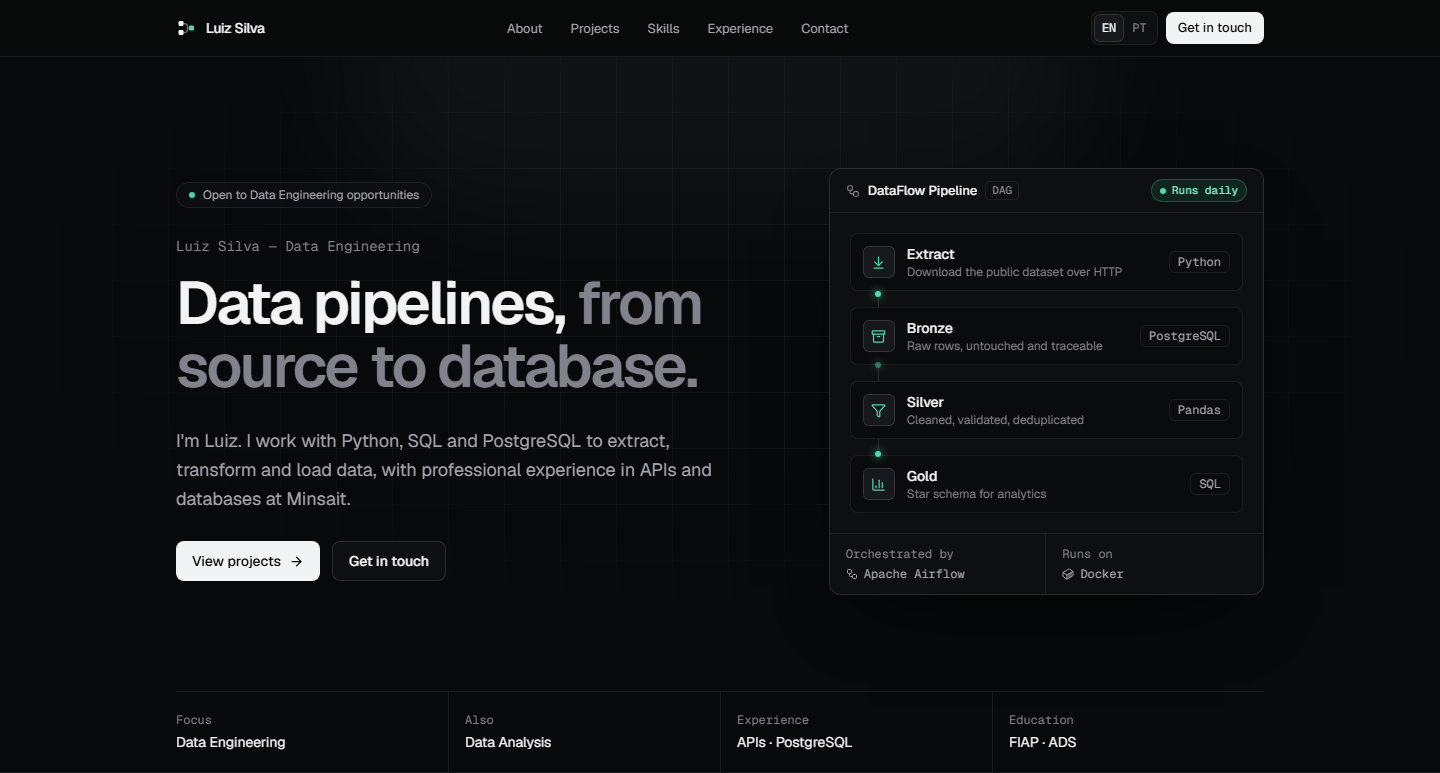
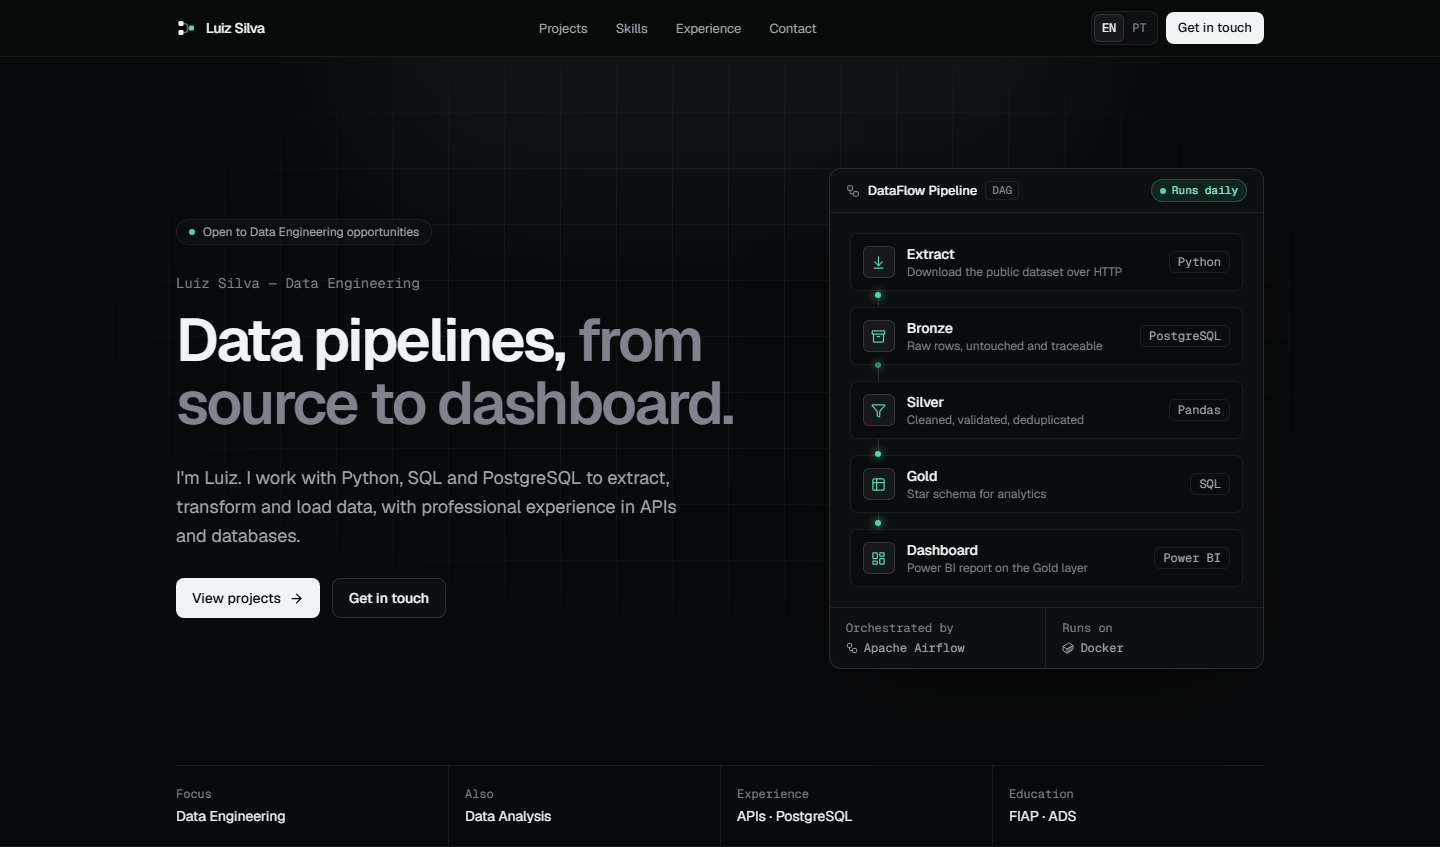
feat: add Power BI to skills and DataFlow Pipeline
Adds Power BI and DAX to Data Analysis skills, a Dashboard stage to
the hero DAG, and the Power BI report (four pages, 19 DAX measures)
to the DataFlow Pipeline card. Headline now reads "from source to
dashboard".

diff --git a/app/lib/i18n/dictionaries/pt.ts b/app/lib/i18n/dictionaries/pt.ts
@@ -24,7 +24,7 @@ export const pt: Dictionary = {
     status: "Aberto a oportunidades em Engenharia de Dados",
     role: "Engenharia de Dados",
     headline: "Pipelines de dados,",
-    headlineMuted: "da origem ao banco de dados.",
+    headlineMuted: "da origem ao dashboard.",
     tagline:
       "Sou o Luiz. Trabalho com Python, SQL e PostgreSQL para extrair, transformar e carregar dados, com experiência profissional em APIs e bancos de dados.",
     viewProjects: "Ver projetos",
@@ -44,6 +44,7 @@ export const pt: Dictionary = {
       bronze: { label: "Bronze", detail: "Linhas brutas, intactas e rastreáveis" },
       silver: { label: "Silver", detail: "Limpas, validadas e sem duplicatas" },
       gold: { label: "Gold", detail: "Star schema para análise" },
+      dashboard: { label: "Dashboard", detail: "Relatório Power BI sobre a Gold" },
     },
     orchestration: "Orquestrado por",
     runtime: "Executa em",
@@ -72,11 +73,12 @@ export const pt: Dictionary = {
     items: {
       dataflow: {
         description:
-          "Pipeline ELT em batch que transforma um milhão de transações brutas de varejo em um star schema testado e pronto para análise. Construído em Medallion Architecture (Bronze, Silver, Gold) com Python, Pandas e PostgreSQL, orquestrado diariamente pelo Apache Airflow e executado de ponta a ponta com um único docker compose up.",
+          "Pipeline ELT em batch que transforma um milhão de transações brutas de varejo em um star schema testado e pronto para análise. Construído em Medallion Architecture (Bronze, Silver, Gold) com Python, Pandas e PostgreSQL, orquestrado diariamente pelo Apache Airflow e visualizado em um relatório Power BI, executado de ponta a ponta com um único docker compose up.",
         highlights: [
           "Qualidade de dados como barreira: checagens críticas param a execução antes que dados inválidos cheguem à Silver ou à Gold, e linhas rejeitadas vão para quarentena com o motivo",
           "Execuções idempotentes: uma segunda execução ignora o arquivo já carregado e altera 0 linhas",
           "Modelo dimensional: tabela fato, quatro dimensões, surrogate keys e membro desconhecido",
+          "Relatório Power BI sobre a camada Gold: quatro páginas e 19 medidas DAX, cada uma conferível com uma query SQL, salvo como Power BI Project (TMDL + PBIR) e versionado no Git",
           "Observabilidade com logs estruturados e um schema de auditoria para cada execução de tarefa e checagem de qualidade",
           "Testes unitários e de integração com Pytest, além de Ruff e CI no GitHub Actions",
         ],
@@ -102,7 +104,7 @@ export const pt: Dictionary = {
       },
       dataAnalysis: {
         title: "Análise de Dados",
-        description: "Área secundária — consulta, organização e síntese de dados.",
+        description: "Consulta, modelagem e visualização de dados, do SQL aos dashboards no Power BI.",
       },
       backend: {
         title: "Backend & APIs",

diff --git a/app/lib/i18n/dictionaries/en.ts b/app/lib/i18n/dictionaries/en.ts
@@ -24,7 +24,7 @@ export const en: Dictionary = {
     status: "Open to Data Engineering opportunities",
     role: "Data Engineering",
     headline: "Data pipelines,",
-    headlineMuted: "from source to database.",
+    headlineMuted: "from source to dashboard.",
     tagline:
       "I'm Luiz. I work with Python, SQL and PostgreSQL to extract, transform and load data, with professional experience in APIs and databases.",
     viewProjects: "View projects",
@@ -44,6 +44,7 @@ export const en: Dictionary = {
       bronze: { label: "Bronze", detail: "Raw rows, untouched and traceable" },
       silver: { label: "Silver", detail: "Cleaned, validated, deduplicated" },
       gold: { label: "Gold", detail: "Star schema for analytics" },
+      dashboard: { label: "Dashboard", detail: "Power BI report on the Gold layer" },
     },
     orchestration: "Orchestrated by",
     runtime: "Runs on",
@@ -72,11 +73,12 @@ export const en: Dictionary = {
     items: {
       dataflow: {
         description:
-          "A batch ELT pipeline that turns one million raw retail transactions into a tested, analytics-ready star schema. Built on a Medallion Architecture (Bronze, Silver, Gold) with Python, Pandas and PostgreSQL, orchestrated daily by Apache Airflow, and running end to end with a single docker compose up.",
+          "A batch ELT pipeline that turns one million raw retail transactions into a tested, analytics-ready star schema. Built on a Medallion Architecture (Bronze, Silver, Gold) with Python, Pandas and PostgreSQL, orchestrated daily by Apache Airflow and visualized in a Power BI report, running end to end with a single docker compose up.",
         highlights: [
           "Data quality as a gate: critical checks stop the run before invalid data reaches Silver or Gold, and rejected rows are quarantined with a reason",
           "Idempotent runs: a second run skips the known file and changes 0 rows",
           "Dimensional model: fact table, four dimensions, surrogate keys and an unknown member",
+          "Power BI report on the Gold layer: four pages and 19 DAX measures, each one checkable against an SQL query, saved as a Power BI Project (TMDL + PBIR) and versioned in Git",
           "Observability with structured logs and an audit schema for every task run and quality check",
           "Pytest unit and integration tests, plus Ruff and CI on GitHub Actions",
         ],
@@ -102,7 +104,7 @@ export const en: Dictionary = {
       },
       dataAnalysis: {
         title: "Data Analysis",
-        description: "Secondary focus — querying, organizing and summarizing data.",
+        description: "Querying, modeling and visualizing data, from SQL to Power BI dashboards.",
       },
       backend: {
         title: "Backend & APIs",

diff --git a/app/components/sections/Hero/PipelineDiagram.tsx b/app/components/sections/Hero/PipelineDiagram.tsx
@@ -3,9 +3,10 @@
 import {
   Archive,
   ArrowDownToLine,
-  ChartColumn,
   Container as ContainerIcon,
   Funnel,
+  LayoutDashboard,
+  Table2,
   Workflow,
 } from "lucide-react";
 import type { LucideIcon } from "lucide-react";
@@ -22,10 +23,12 @@ const STAGE_ICONS: Record<PipelineStageId, LucideIcon> = {
   extract: ArrowDownToLine,
   bronze: Archive,
   silver: Funnel,
-  gold: ChartColumn,
+  gold: Table2,
+  dashboard: LayoutDashboard,
 };
 
-// A schematic of DataFlow Pipeline's Medallion flow (Bronze → Silver → Gold).
+// A schematic of DataFlow Pipeline's Medallion flow (Bronze → Silver → Gold),
+// ending in the Power BI report built on the Gold layer.
 export function PipelineDiagram() {
   const { dictionary } = useLanguage();
   const { pipeline } = dictionary;

diff --git a/app/types/index.ts b/app/types/index.ts
@@ -18,7 +18,12 @@ export type Profile = {
 
 export type Locale = "en" | "pt";
 
-export type PipelineStageId = "extract" | "bronze" | "silver" | "gold";
+export type PipelineStageId =
+  | "extract"
+  | "bronze"
+  | "silver"
+  | "gold"
+  | "dashboard";
 
 export type PipelineStage = {
   id: PipelineStageId;

diff --git a/app/lib/content/pipeline.ts b/app/lib/content/pipeline.ts
@@ -7,6 +7,7 @@ export const PIPELINE_STAGES: PipelineStage[] = [
   { id: "bronze", tech: "PostgreSQL" },
   { id: "silver", tech: "Pandas" },
   { id: "gold", tech: "SQL" },
+  { id: "dashboard", tech: "Power BI" },
 ];
 
 export const PIPELINE_ORCHESTRATOR = "Apache Airflow";

diff --git a/app/lib/content/skills.ts b/app/lib/content/skills.ts
@@ -18,7 +18,7 @@ export const SKILL_CATEGORIES: SkillCategory[] = [
   },
   {
     id: "dataAnalysis",
-    skills: ["SQL", "Pandas", "Excel", "Pivot tables"],
+    skills: ["SQL", "Power BI", "DAX", "Pandas", "Excel", "Pivot tables"],
   },
   {
     id: "backend",

diff --git a/app/lib/content/projects.ts b/app/lib/content/projects.ts
@@ -11,6 +11,7 @@ export const PROJECTS: Project[] = [
       "Pandas",
       "PostgreSQL",
       "Apache Airflow",
+      "Power BI",
       "Docker",
       "Pytest",
       "GitHub Actions",

diff --git a/README.md b/README.md
@@ -4,12 +4,12 @@ Portfólio pessoal de **Luiz Silva**, com foco em **Engenharia de Dados** e **An
 
 **🔗 Acesse: [luizsoc.vercel.app](https://luizsoc.vercel.app/)**
 
-![Página inicial do portfólio: título "Data pipelines, from source to database.", botões View projects e Get in touch e um diagrama do DataFlow Pipeline com as etapas Extract, Bronze, Silver e Gold](public/images/print-home.png)
+![Página inicial do portfólio: título "Data pipelines, from source to dashboard.", botões View projects e Get in touch e um diagrama do DataFlow Pipeline com as etapas Extract, Bronze, Silver, Gold e Dashboard (Power BI)](public/images/print-home.png)
 
 ## Funcionalidades
 
 - **Layout de página única** com as seções Início, Projetos, Skills, Experiência (com Formação) e Contato
-- **Foco em dados**: diagrama do DataFlow Pipeline (Medallion Architecture: Extract → Bronze → Silver → Gold, orquestrado pelo Airflow) no topo e projetos e skills de dados em destaque
+- **Foco em dados**: diagrama do DataFlow Pipeline (Medallion Architecture: Extract → Bronze → Silver → Gold → dashboard Power BI, orquestrado pelo Airflow) no topo e projetos e skills de dados em destaque
 - **Bilíngue (EN / PT-BR)**: troca de idioma no cliente, preferência salva no `localStorage` e `<html lang>` sincronizado
 - **Navegação responsiva**: header fixo com links no desktop, menu em tela cheia no mobile e destaque da seção ativa
 - **Acessível por padrão**: HTML semântico, skip link, foco visível, navegação por teclado e suporte a `prefers-reduced-motion`
